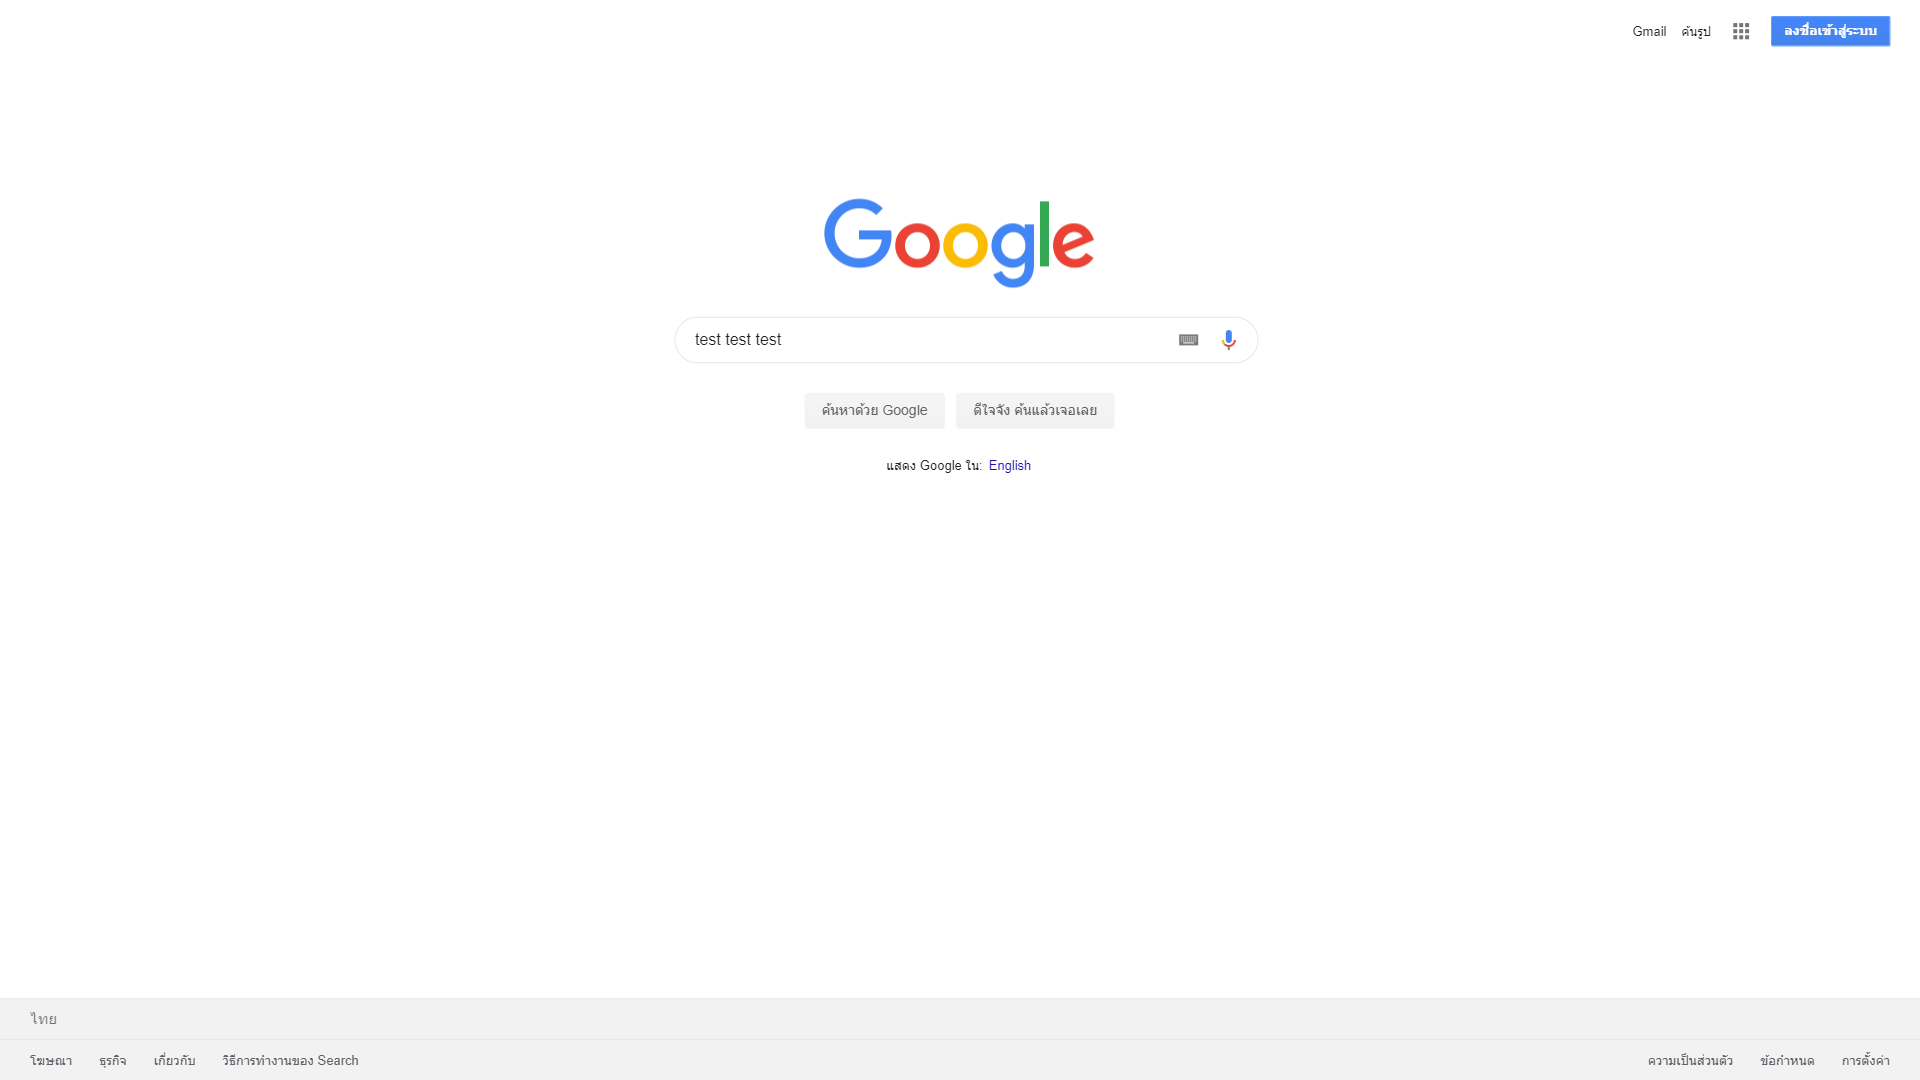
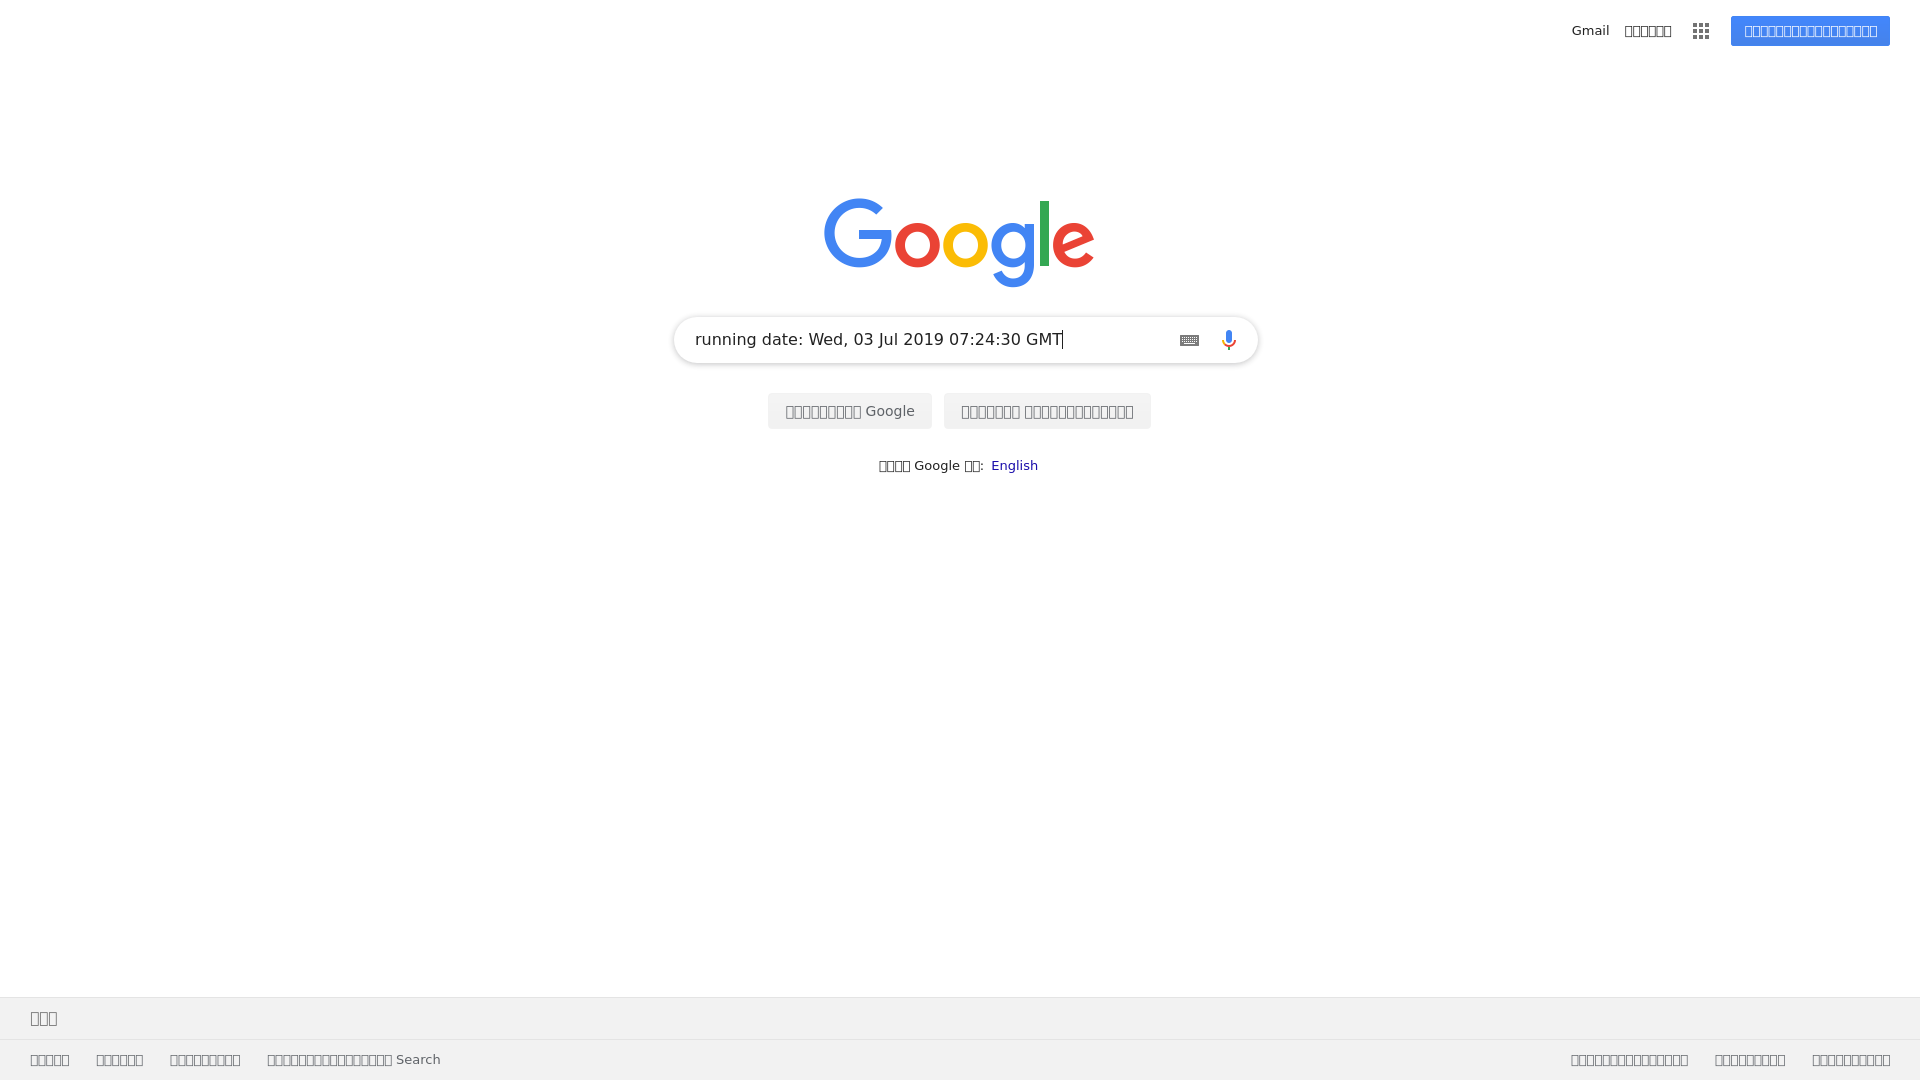
refact config

diff --git a/simple-1.js b/simple-1.js
@@ -1,14 +1,27 @@
 const puppeteer = require('puppeteer');
 
 (async () => {
-  // enable ui
-  const browser = await puppeteer.launch({
-    // executablePath: "./node_modules/puppeteer/.local-chromium/linux-656675/chrome-win/chrome.exe",
-    // executablePath: "./node_modules/puppeteer/.local-chromium/win64-656675/chrome-win/chrome.exe",
-    headless: false
-  })
-  // disable ui
-  // const browser = await puppeteer.launch();
+  const browserConfig = {
+    // executablePath: "./node_modules/puppeteer/.local-chromium/win64-656675/chrome-win/chrome.exe", //win64
+    headless: true,
+  }
+
+  const isWindowsPlatfrom = () => {
+    return process.platform.indexOf("win") >= 0
+  }
+
+  if (isWindowsPlatfrom() == false) {
+    // executablePath: "./node_modules/puppeteer/.local-chromium/linux-656675/chrome-linux/chrome",
+    // executablePath: "/usr/bin/chromium-browser", //wsl
+    browserConfig.args = ['--no-sandbox', '--disable-setuid-sandbox']
+  }
+
+  console.log("browser.config", browserConfig)
+  const browser = await puppeteer.launch(browserConfig)
+
+  console.log("process.platform", process.platform)
+  console.log("browser.version", await browser.version())
+
   const page = await browser.newPage()
   await page.setViewport({
     width: 1920,
@@ -17,8 +30,9 @@ const puppeteer = require('puppeteer');
   })
   await page.goto('https://google.com')
   await page.waitFor('input[name=q]')
-  await page.$eval('input[name=q]', el => el.value = 'test test test')
+  await page.$eval('input[name=q]', el => el.value = 'running date: ' + new Date().toUTCString())
   await page.screenshot({path: 'google.png'})
 
+  // close
   await browser.close()
 })();

diff --git a/README.md b/README.md
@@ -1,1 +1,8 @@
-# puppeteer-self-training
+# puppeteer-poc
+
+## What's new
+https://www.youtube.com/watch?v=MbnATLCuKI4
+
+## required
+- linux, wsl
+  * apt-get install chromium-browser
